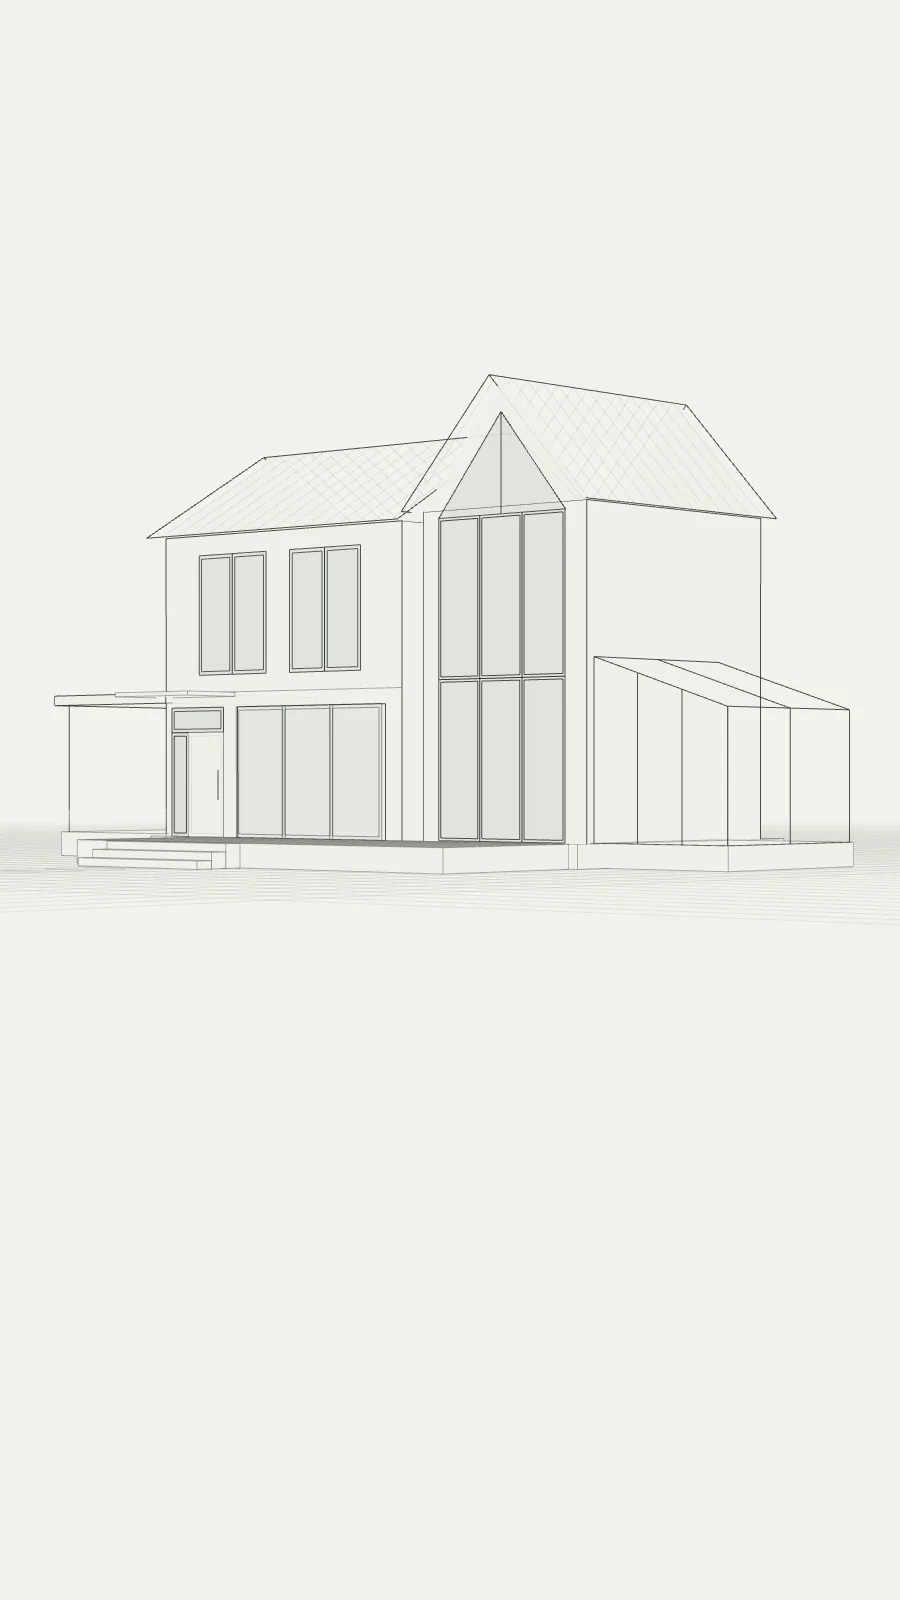
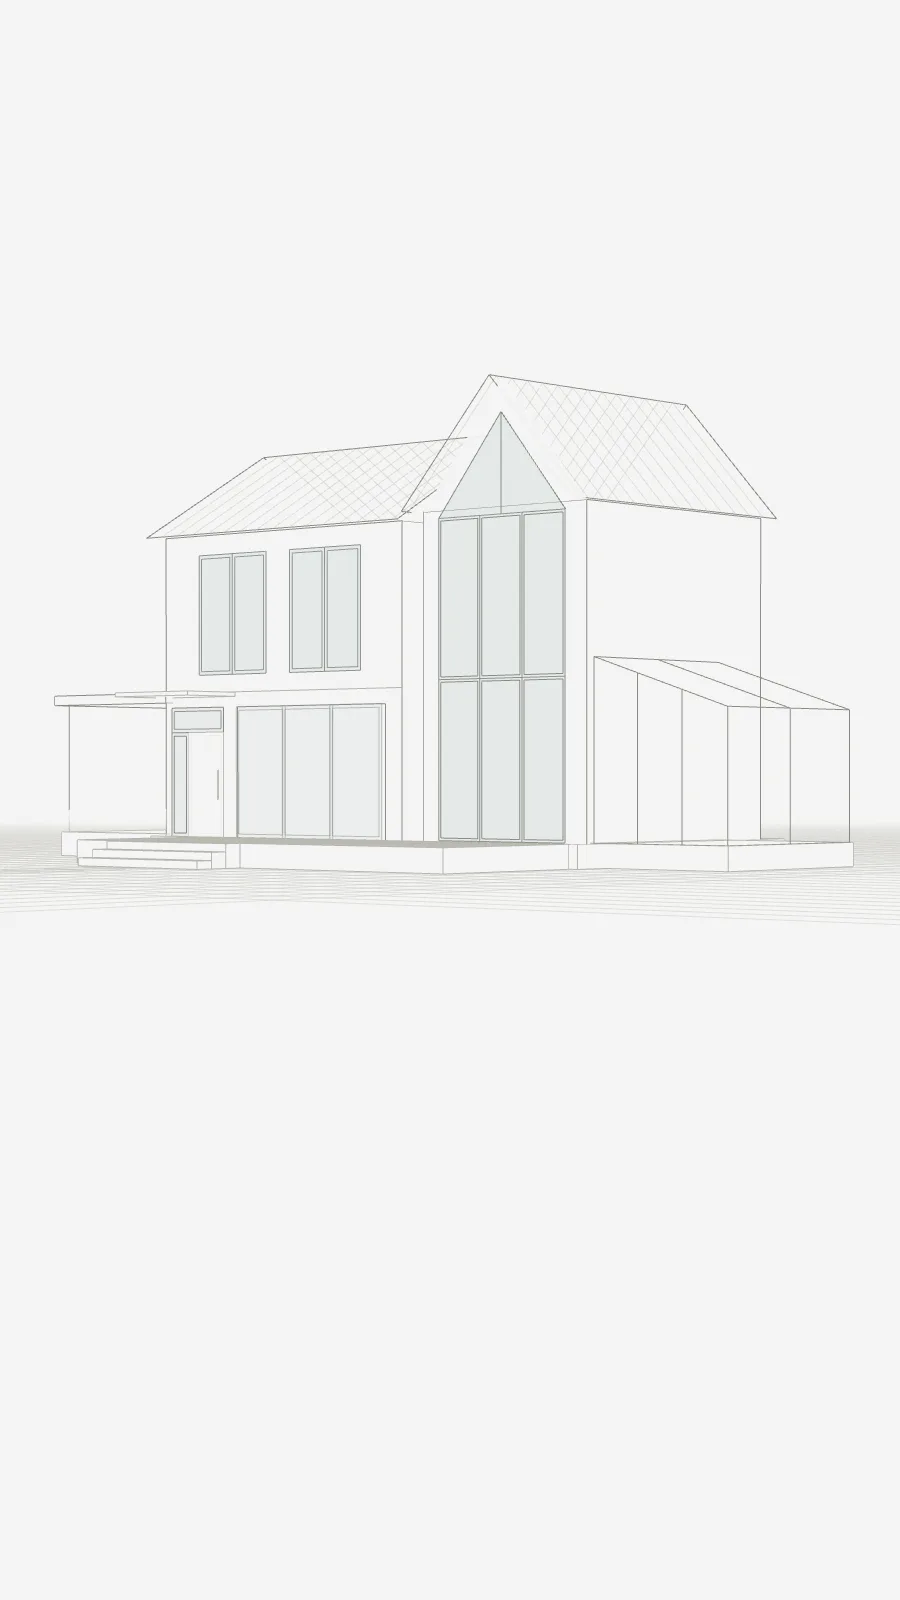
Карта остекления: стиль «эскиз архитектора», фон как у HS, вопрос — колонка 30 % / шторка снизу
Claude-Session: https://claude.ai/code/session_01Gn8VhCyfsZCGjGBhD9Jp6s

diff --git a/assets/css/glazing-map.css b/assets/css/glazing-map.css
@@ -1,16 +1,14 @@
 @import url('./pages.css');
 
 /* ============================================================
-   «Персональная карта остекления» (/osteklenie-pod-klyuch/).
-   Первый экран — полноэкранная сцена дома (100svh, на компьютере не ниже 860 px): дом и есть интерфейс.
-   Поверх сцены — прозрачная шапка (<site-menu data-over>), крошки, счётчик «В проекте», короткий текст внизу слева
-   (до 430 px) и компактная панель вопроса справа (на телефоне — шторка снизу). Ниже — итог, форма и SEO-блоки.
-   Ниже первого экрана — плоско, как инженерный чертёж: тонкие линии, углы без скругления, выбранное — чёрная заливка.
+   «Персональная карта остекления» (/osteklenie-pod-klyuch/). Стиль — Architectural Sketch / Warm Technical Drawing:
+   эскиз архитектора и инженерная интерактивность. Фон — как у страницы HS (#f5f5f4 / #ededeb).
+   Первый экран — сцена дома на всю высоту под шапкой: дом и есть интерфейс. Вопрос — на том же светлом фоне:
+   на компьютере колонка ~30 % справа за тонкой вертикальной линией (дом ~70 %), на телефоне — шторка снизу ~38 %,
+   дом всё время виден сверху. Акцент #B19A6B — сдержанно: тонкий контур, лёгкая подложка.
    ============================================================ */
-.gm{--gm-line:var(--ui-line-soft)}
-
-/* ---------- первый экран: светлый архитектурный чертёж (редакционная инженерия) ---------- */
-:root{--gm-bg:#f3f1ea;--gm-bg2:#ece9e1;--gm-surface:#fff;--gm-line:#cfccc3;--gm-ink:#171715;--gm-graph:#242421;--gm-muted:#6f6a5f;--gm-acc:#b7a276;--gm-acc-soft:rgba(183,162,118,.12)}
+:root{--gm-bg:#f5f5f4;--gm-bg2:#ededeb;--gm-surface:#f5f5f4;--gm-line:#d2d1cc;--gm-ink:#151513;--gm-graph:#5d5e59;--gm-muted:#6f6c64;--gm-acc:#b19a6b;--gm-acc-soft:rgba(177,154,107,.1)}
+.gm-hero{--gm-panel-w:min(30vw, 460px)}
 .gm-hero{position:relative;height:calc(100svh - var(--header-h));min-height:560px;overflow:hidden;background:var(--gm-bg);color:var(--gm-ink);isolation:isolate}
 @media(min-width:1000px){.gm-hero{min-height:780px}}
 .gm-scene{position:absolute;inset:0}
@@ -39,9 +37,9 @@
 }
 .gm-hot[hidden]{display:none}
 .gm-hot__dot{
-  position:relative;display:grid;place-items:center;width:28px;height:28px;border:1px solid var(--gm-graph);background:rgba(243,241,234,.9);
+  position:relative;display:grid;place-items:center;width:26px;height:26px;border:1px solid #8b8c86;background:rgba(245,245,244,.92);color:var(--gm-ink);
   font:600 var(--fs-label)/1 var(--font);letter-spacing:.04em;transition:background .25s,color .25s,border-color .25s,outline-color .3s,outline-offset .3s;
-  outline:1px solid rgba(183,162,118,0);outline-offset:0
+  outline:1px solid rgba(177,154,107,0);outline-offset:0
 }
 .gm-hot__label{
   position:absolute;left:calc(50% + 14px);top:50%;display:flex;align-items:center;gap:8px;white-space:nowrap;pointer-events:none;opacity:0;transform:translateY(-50%);
@@ -54,13 +52,13 @@
   font:300 var(--fs-caption)/1.35 var(--font);transition:opacity .15s,transform .15s var(--ease-ui);z-index:2
 }
 .gm-hot__tip b{display:block;margin-bottom:2px;color:var(--gm-ink);font-weight:500;font-size:var(--fs-small)}
-.gm-hot:hover .gm-hot__dot,.gm-hot:focus-visible .gm-hot__dot{outline-color:rgba(183,162,118,.7);outline-offset:6px}
+.gm-hot:hover .gm-hot__dot,.gm-hot:focus-visible .gm-hot__dot{border-color:var(--gm-acc);outline-color:rgba(177,154,107,.55);outline-offset:5px}
 .gm-hot:hover .gm-hot__tip,.gm-hot:focus-visible .gm-hot__tip{opacity:1;transform:translate(-50%,0)}
 .gm-hot:focus-visible{outline:none}
-.gm-hot.is-selected .gm-hot__dot{border-color:var(--gm-acc);background:#f6f1e5;animation:gm-pop .4s var(--ease-ui)}
+.gm-hot.is-selected .gm-hot__dot{border-color:var(--gm-acc);background:#f3efe6;animation:gm-pop .4s var(--ease-ui)}
 .gm-hot.is-selected .gm-hot__label{opacity:1;color:var(--gm-muted)}
 .gm-hot.is-selected:hover .gm-hot__label,.gm-hot.is-selected:focus-visible .gm-hot__label{opacity:0}
-.gm-hot.is-active .gm-hot__dot{background:var(--gm-graph);border-color:var(--gm-graph);color:#fff;outline-color:rgba(183,162,118,.6);outline-offset:5px}
+.gm-hot.is-active .gm-hot__dot{background:#efe9dc;border:1.5px solid var(--gm-acc);color:var(--gm-ink);outline-color:rgba(177,154,107,.45);outline-offset:5px}
 .gm-hot.is-active .gm-hot__label{opacity:1;color:var(--gm-ink)}
 .gm-hot.is-active .gm-hot__tip{opacity:0}
 .gm-hot.is-dim{opacity:.28}
@@ -95,10 +93,10 @@
 .gm-hero.is-focus .gm-intro{opacity:0;transform:translateY(12px);pointer-events:none}
 .gm-hero.is-focus .gm-intro *{pointer-events:none}
 
-/* ---------- панель вопроса: белый лист с тонкой рамкой, без скруглений; выбранный ответ — чёрная заливка ---------- */
-.gm-panel{position:absolute;z-index:4;color:var(--gm-ink);background:var(--gm-surface);border:1px solid var(--gm-line)}
+/* ---------- панель вопроса: тот же светлый фон, отделена тонкой линией; активный ответ — лёгкая бежевая подложка ---------- */
+.gm-panel{position:absolute;z-index:4;color:var(--gm-ink);background:var(--gm-surface)}
 .gm-panel__head{display:grid;grid-template-columns:auto minmax(0,1fr) auto;align-items:center;gap:12px;padding-bottom:12px;border-bottom:1px solid var(--gm-line)}
-.gm-panel__n{display:grid;place-items:center;width:30px;height:30px;background:var(--gm-graph);color:#fff;font:600 var(--fs-label)/1 var(--font);letter-spacing:.04em}
+.gm-panel__n{display:grid;place-items:center;width:30px;height:30px;border:1.5px solid var(--gm-acc);background:#efe9dc;color:var(--gm-ink);font:600 var(--fs-label)/1 var(--font);letter-spacing:.04em}
 .gm-panel__zone{margin:0;font:600 var(--fs-label)/1.3 var(--font);letter-spacing:.14em;text-transform:uppercase}
 .gm-panel__x{width:44px;height:44px;border:1px solid var(--gm-line);background:transparent;color:var(--gm-ink);cursor:pointer;font:300 var(--fs-h4)/1 var(--font)}
 .gm-panel__x:hover{border-color:var(--gm-ink)}
@@ -111,10 +109,10 @@
 }
 .gm-opt b{font:400 var(--fs-h4)/1.2 var(--font);letter-spacing:-.02em}
 .gm-opt span{color:var(--gm-muted);font:300 var(--fs-small)/1.4 var(--font)}
-.gm-opt.is-on{background:var(--gm-ink);border-color:var(--gm-ink);color:#fff}
-.gm-opt.is-on span{color:#c9c6bd}
+.gm-opt.is-on{background:#efe9dc;border-color:var(--gm-acc);color:var(--gm-ink)}
+.gm-opt.is-on span{color:var(--gm-muted)}
 .gm-opt:focus-visible{outline:2px solid var(--gm-acc);outline-offset:2px}
-@media(hover:hover){.gm-opt:not(.is-on):hover{border-color:var(--gm-graph)}}
+@media(hover:hover){.gm-opt:not(.is-on):hover{border-color:#8b8c86;background:#fff}}
 .gm-panel__caption{margin:16px 0 0;padding-top:14px;border-top:1px solid var(--gm-line);color:var(--gm-muted);font:300 var(--fs-small)/1.45 var(--font)}
 .gm-panel__caption b{display:block;margin-bottom:4px;color:var(--gm-ink);font:600 var(--fs-label)/1.3 var(--font);letter-spacing:.12em;text-transform:uppercase}
 .gm-panel__caption[hidden]{display:none}
@@ -123,13 +121,24 @@
 .gm-panel__acts .ui-btn[disabled]{opacity:.3;cursor:not-allowed}
 .gm-btn-ghost{justify-content:flex-start!important;gap:12px!important}
 @media(min-width:1000px){
-  .gm-panel{top:62px;right:max(var(--ui-pad), calc((100vw - var(--ui-max)) / 2 + var(--ui-pad)));width:min(400px, 34vw);
-    max-height:calc(100% - 90px);overflow:auto;padding:18px 20px 20px}
+  .gm-panel{top:0;right:0;bottom:0;width:var(--gm-panel-w);overflow:auto;border-left:1px solid var(--gm-line);
+    padding:clamp(56px, 8vh, 88px) max(var(--ui-pad), calc((100vw - var(--ui-max)) / 2 + var(--ui-pad))) 28px clamp(24px, 2.4vw, 40px)}
   .gm-hero.is-focus .gm-count{opacity:0;pointer-events:none}
 }
 @media(max-width:999.98px){
-  .gm-panel{left:0;right:0;bottom:0;max-height:62%;overflow:auto;overscroll-behavior:contain;padding:14px var(--ui-pad) 0;border-width:1px 0 0}
-  .gm-panel__acts{position:sticky;bottom:0;margin:16px calc(var(--ui-pad) * -1) 0;padding:10px var(--ui-pad) max(10px, env(safe-area-inset-bottom));background:#fff;border-top:1px solid var(--gm-line);grid-template-columns:minmax(0,1fr) auto}
+  /* шторка ~38 %: сверху всё время виден дом */
+  .gm-panel{left:0;right:0;bottom:0;max-height:44%;overflow:auto;overscroll-behavior:contain;padding:8px var(--ui-pad) 0;border-top:1px solid var(--gm-line)}
+  .gm-panel__head{padding-bottom:6px;border-bottom:0}
+  .gm-panel__n{width:26px;height:26px}
+  .gm-panel__x{width:40px;height:40px}
+  .gm-panel__step{display:none}
+  .gm-panel__q{margin-top:2px;font-size:var(--fs-h4);letter-spacing:-.02em}
+  .gm-opts{margin-top:10px;gap:4px}
+  .gm-opt{min-height:44px;padding:9px 12px;align-content:center}
+  .gm-opt b{font-size:var(--fs-body)}
+  .gm-opt span{display:none}
+  .gm-panel__caption{display:none}
+  .gm-panel__acts{position:sticky;bottom:0;margin:10px calc(var(--ui-pad) * -1) 0;padding:8px var(--ui-pad) max(8px, env(safe-area-inset-bottom));background:var(--gm-surface);border-top:1px solid var(--gm-line);grid-template-columns:minmax(0,1fr) auto}
   .gm-panel__acts .ui-btn{width:auto}
   .gm-btn-ghost{order:-1}
   .gm-hero.is-focus .gm-count{display:none}

diff --git a/assets/js/glazing-map/scene3d.js b/assets/js/glazing-map/scene3d.js
@@ -1,6 +1,6 @@
-/* 3D-сцена «Персональной карты остекления»: светлый архитектурный чертёж (three.js локально, без CDN).
-   Редакционная инженерия, а не рендер коттеджа: тёплый молочно-серый фон, дом графитовыми линиями, дымчатые плоскости стекла.
-   Песочный — сдержанно: активная и выбранная зона — тонкий песочный контур и лёгкая полупрозрачная подложка. Без деревьев, неба и теней.
+/* 3D-сцена «Персональной карты остекления»: Architectural Sketch / Warm Technical Drawing (three.js локально, без CDN).
+   Эскиз архитектора, а не рендер коттеджа: фон как у страницы HS (#f5f5f4), тонкий серо-графитовый контур, стекло чуть холоднее фона.
+   Акцент #B19A6B — сдержанно: активная и выбранная зона — тонкий контур, стекло чуть темнее, очень лёгкая подложка. Без деревьев, неба и теней.
    Контроллер — тот же интерфейс, что у адаптера Spline (spline.js): focusZone, reset, setSelectedZones, setReducedMotion,
    setHover, setAnswers(zoneId, answers, commit) — ответы меняют саму сцену:
      гостиная → сад: ежедневно — три стеклянные плоскости HS, створка идёт по песочной направляющей, проход светится;
@@ -14,7 +14,7 @@
    Кадр рисуется только во время анимации. Нет WebGL — createScene бросает ошибку, страница остаётся на постере. */
 import * as THREE from '../../vendor/three/three.module.min.js';
 
-const C = { bg: '#f3f1ea', line: '#242421', line2: '#4a4944', glass: '#8fa3a8', accent: '#b7a276', warm: '#d9b98a' };
+const C = { bg: '#f5f5f4', line: '#8b8c86', line2: '#b7b5ad', glass: '#b2c3c3', glassOn: '#8b9fa0', accent: '#b19a6b', warm: '#d9b98a' };
 const ease = t => t < 0.5 ? 4 * t * t * t : 1 - Math.pow(-2 * t + 2, 3) / 2;
 const lerp = (a, b, t) => a + (b - a) * t;
 const clamp01 = v => Math.max(0, Math.min(1, v));
@@ -23,9 +23,9 @@ const POSTER_ASPECT = { land: 16 / 9, port: 9 / 16 };
 
 // ---------- материалы ----------
 const lineMat = (opacity, color = C.line) => new THREE.LineBasicMaterial({ color, transparent: true, opacity, fog: true, depthWrite: false });
-const L = { main: lineMat(0.8), second: lineMat(0.42, C.line2), faint: lineMat(0.1, C.line2) };
-const WALL = new THREE.MeshBasicMaterial({ color: '#f1efe8', transparent: true, opacity: 0.9, polygonOffset: true, polygonOffsetFactor: 1, polygonOffsetUnits: 1 });
-const glassMat = (op = 0.16) => new THREE.MeshBasicMaterial({ color: C.glass, transparent: true, opacity: op, side: THREE.DoubleSide, depthWrite: false, fog: true });
+const L = { main: lineMat(1), second: lineMat(1, C.line2), faint: lineMat(0.35, C.line2) };
+const WALL = new THREE.MeshBasicMaterial({ color: '#f5f5f4', transparent: true, opacity: 0.92, polygonOffset: true, polygonOffsetFactor: 1, polygonOffsetUnits: 1 });
+const glassMat = (op = 0.24) => new THREE.MeshBasicMaterial({ color: C.glass, transparent: true, opacity: op, side: THREE.DoubleSide, depthWrite: false, fog: true });
 function gradTex(stops) {
   const c = document.createElement('canvas'); c.width = 4; c.height = 256;
   const g = c.getContext('2d'), gr = g.createLinearGradient(0, 256, 0, 0);
@@ -68,16 +68,16 @@ function accordion(panels, x0, z0, w, t) {
 }
 // Материалы зоны: линии остаются графитовыми (активная — чуть плотнее), стекло получает лёгкую песочную подложку
 function zoneMats() {
-  const line = lineMat(0.8), dim = lineMat(0.42, C.line2), gm = glassMat(0.16);
-  const cGlass = new THREE.Color(C.glass), cAcc = new THREE.Color(C.accent);
+  const line = lineMat(1), dim = lineMat(1, C.line2), gm = glassMat(0.24);
+  const cGlass = new THREE.Color(C.glass), cOn = new THREE.Color(C.glassOn), cLine = new THREE.Color(C.line), cDark = new THREE.Color('#5d5e59');
   let tint = 0;
   return {
     line, dim, gm,
     paint(s, k) {
       const want = s.focus ? 1 : s.selected || s.hover ? 0.6 : 0;
       tint = lerp(tint, want, k);
-      line.opacity = 0.8 + 0.2 * tint;
-      gm.color.copy(cGlass).lerp(cAcc, 0.35 * tint);
+      line.color.copy(cLine).lerp(cDark, 0.5 * tint);                  // активная зона — контур чуть темнее
+      gm.color.copy(cGlass).lerp(cOn, tint); gm.opacity = 0.24 + 0.14 * tint; // стекло 0.24 → 0.38
       return Math.abs(tint - want) > 0.005;
     },
   };
@@ -132,7 +132,7 @@ function buildHouse() {
   // цоколь, терраса с настилом из параллельных линий, ступени, дорожка
   root.add(solid(11.2, LIFT + 0.15, 6.4, -0.75, (LIFT + 0.15) / 2, -0.1, L.second));
   root.add(solid(9.4, LIFT + 0.15, 3.4, -0.05, (LIFT + 0.15) / 2, 4.8, L.second));
-  { const pts = []; for (let z = 3.26; z < 6.5; z += 0.16) pts.push([-4.75, LIFT + 0.152, z], [4.65, LIFT + 0.152, z]); root.add(segs(pts, lineMat(0.2, C.line2))); }
+  { const pts = []; for (let z = 3.26; z < 6.5; z += 0.16) pts.push([-4.75, LIFT + 0.152, z], [4.65, LIFT + 0.152, z]); root.add(segs(pts, lineMat(0.55, C.line2))); }
   [0, 1, 2].forEach(i => root.add(solid(3.2, (LIFT + 0.15) * (3 - i) / 3, 0.36, -1.9, (LIFT + 0.15) * (3 - i) / 6, 6.68 + i * 0.36, L.second)));
   { const pts = []; for (let i = 0; i < 7; i++) { const x = -1.9 + Math.sin(i * 0.5) * 0.25, z = 7.9 + i * 1.05; pts.push(...rectPts(1.3, 0.8).map(([a, b]) => [x - 0.65 + a, 0.01, z - 0.4 + b])); } root.add(segs(pts, L.faint)); }
 
@@ -190,7 +190,7 @@ function buildHouse() {
       const show = s.focus || s.selected || s.hover ? 1 : 0.55;
       for (const [key, v] of Object.entries(vars)) {
         op[key] = lerp(op[key], key === want ? show : 0, k);
-        v.visible = op[key] > 0.01; v.userData.line.opacity = 0.85 * op[key]; v.userData.gm.opacity = 0.22 * op[key];
+        v.visible = op[key] > 0.01; v.userData.line.opacity = op[key]; v.userData.gm.opacity = zm.gm.opacity * op[key]; v.userData.gm.color.copy(zm.gm.color);
         v.userData.line.color.copy(zm.line.color);
       }
       const t = s.open;
@@ -444,7 +444,7 @@ export function createScene(host, opts = {}) {
       if (Math.abs(d) > 0.002) { s.open += d * Math.min(1, k * 0.8); busy = true; } else s.open = s.openTo;
       if (zones[id].userData.update?.({ ...s, open: ease(clamp01(s.open)) }, k)) busy = true;
       const m = marks[id], want = s.focus ? 1 : s.selected ? 0.75 : s.hover ? 0.55 : 0;
-      m.v = lerp(m.v, want, k); m.line.opacity = m.v; m.fill.opacity = 0.1 * m.v;
+      m.v = lerp(m.v, want, k); m.line.opacity = m.v; m.fill.opacity = 0.07 * m.v;
       if (Math.abs(m.v - want) > 0.005) busy = true;
     }
     return busy;

diff --git a/assets/js/glazing-map/app.js b/assets/js/glazing-map/app.js
@@ -158,8 +158,8 @@ function init() {
   // ---------- панель сценария: один вопрос, ответ меняет сцену ----------
   function insets() {
     if (!active) return scene?.setInset(0, 0);
-    if (mqDesk.matches) scene?.setInset(panel.offsetWidth + 40, 0);
-    else scene?.setInset(0, Math.min(panel.offsetHeight, stage.clientHeight * 0.62));
+    if (mqDesk.matches) scene?.setInset(panel.offsetWidth, 0);
+    else scene?.setInset(0, panel.offsetHeight);
   }
   function openZone(id, from, source) {
     const z = zoneById(id); if (!z) return;
